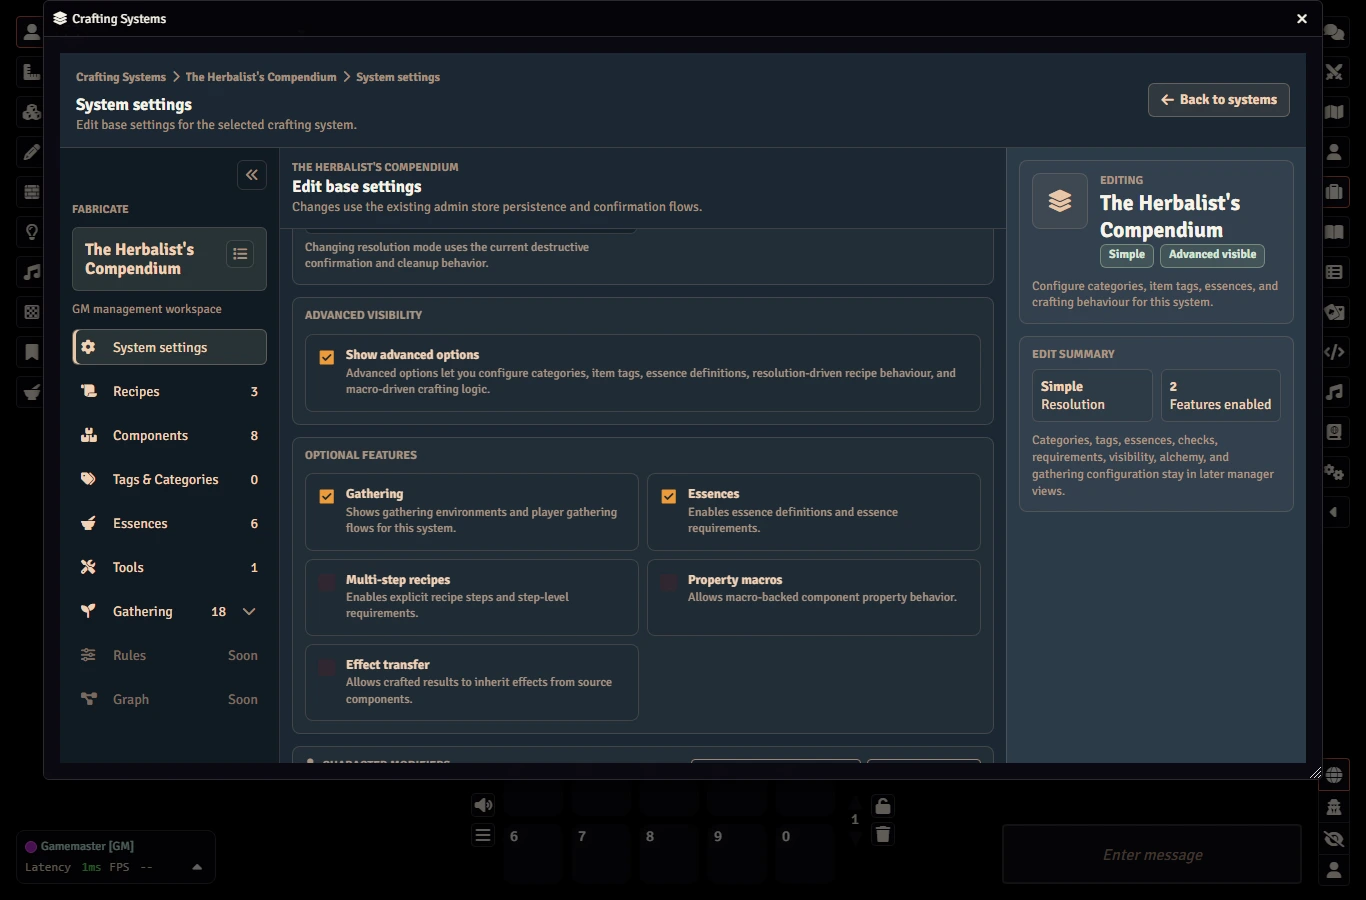
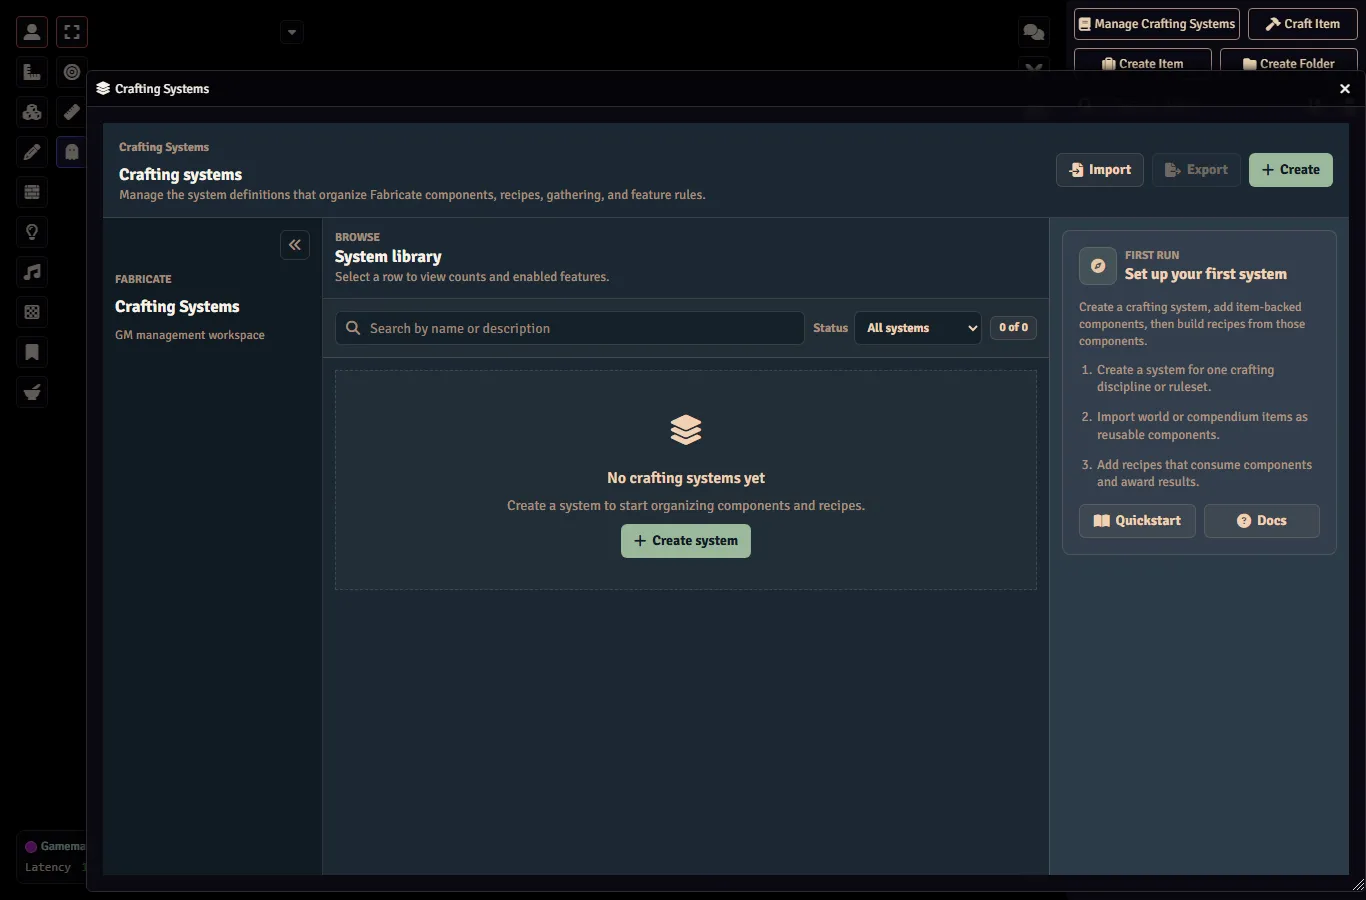
docs(#363): show empty System Library for quickstart Step 2 create-system
Quickstart Step 2 ("Create a Crafting System") used
fabricate-create-crafting-system.webp, but that frame was sourced from
the manager-system-edit-normal label — the System settings editor of an
already-created system, not the create-a-system entry point.

Add a manager-systems-empty capture to the smoke harness (full profile)
that opens the Crafting System Manager before the smoke system exists, so
it shows the genuine "No crafting systems yet" onboarding card with the
Create system button and the first-run panel. It runs at the start of
Phase C (the only point with an empty library), defensively clearing any
systems left by an aborted prior run for determinism, and is gated to the
full profile like the other documentation captures (rc/ci skips it via
screenshot()).

Regenerate fabricate-create-crafting-system.webp from the new frame and
repoint the docs source list in agents/smoke-harness.md. The quickstart
filename is unchanged, so Step 2 now shows the empty System Library.

diff --git a/docs/agents/smoke-harness.md b/docs/agents/smoke-harness.md
@@ -49,7 +49,7 @@ Do not link docs directly to `test-results/`; that directory is transient and is
 
 The current gathering docs source set includes these full-profile labels:
 
-- GM setup: `manager-system-edit-normal`, `manager-components-normal`, `manager-environments-browse-normal`, `manager-environment-edit-placeholder`
+- GM setup: `manager-systems-empty` (quickstart Step 2 "Create a Crafting System" — the empty System Library onboarding card with the Create system button, captured before the smoke system exists), `manager-components-normal`, `manager-environments-browse-normal`, `manager-environment-edit-placeholder`
 - GM gathering libraries: `manager-gathering-task-editor-normal`, `manager-gathering-event-editor-normal`
 - Environment composition: `manager-environment-edit-tasks`, `manager-environment-edit-events`, `manager-gathering-settings`
 - Player journey: `player-gathering-environments`, `player-gathering-events`, `player-gathering-task-ready`, `player-gathering-after-success`, `player-gathering-tool-blocked`, `player-gathering-timed-ready`, `player-gathering-timed-active`, `player-gathering-blind`, `player-gathering-realm-locked`, `player-gathering-stacked`